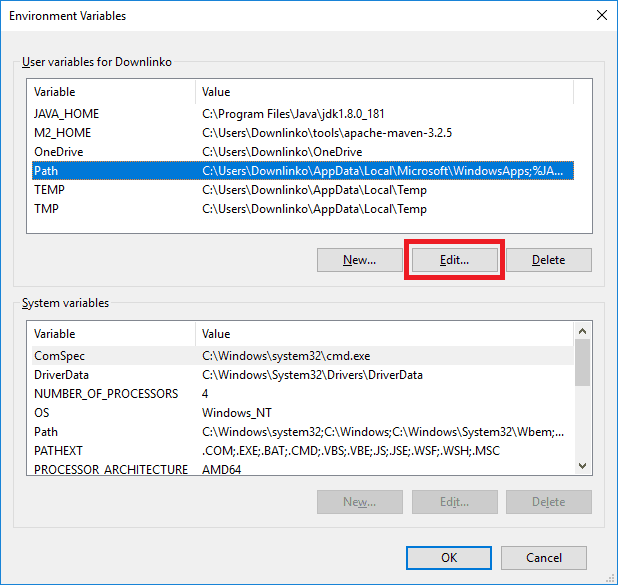
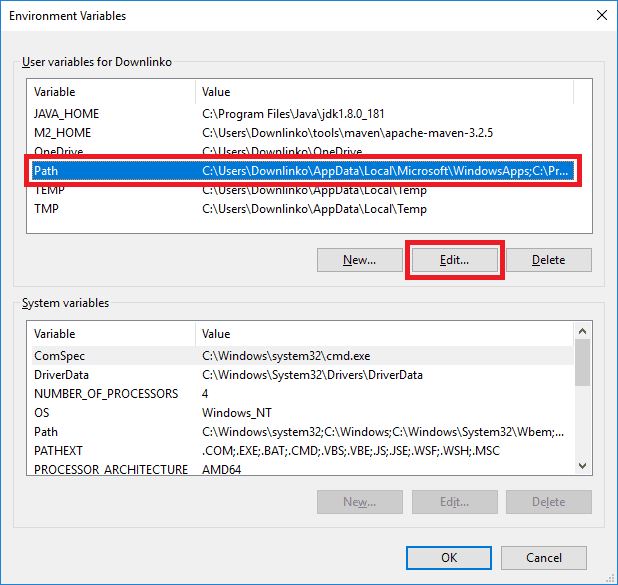
update posts

Changed region(s): [[0.0307, 0.2154, 0.9531, 0.3385], [0.6456, 0.4, 0.7994, 0.4615]]

diff --git a/_posts/development/maven/2018-07-28-download-install-maven-3-2-2-windows.md b/_posts/development/maven/2018-07-28-download-install-maven-3-2-2-windows.md
@@ -92,7 +92,7 @@ In this example, we extract in `C:\Users\Downlinko\tools`.
 
 <img src="{{ site.url }}/assets/images/posts/development/tools-extract-destination.png" alt="tools-extract-destination">
 
-Click on `Extract`. This extracts all Maven files under `C:\Users\Downlinko\tools\apache-maven-3.2.2`.
+Click on `Extract`. This extracts all Maven files under `C:\Users\Downlinko\tools\maven\apache-maven-3.2.2`.
 
 > From now on we refer to this location as `[MAVEN_INSTALL_DIR]`.
 
@@ -118,7 +118,7 @@ Click on `New…`.
 
 Enter "<kbd>M2_HOME</kbd>" as variable name. Enter the `[MAVEN_INSTALL_DIR]` as variable value.
 
-In this tutorial the installation directory is: `C:\Users\Downlinko\tools\apache-maven-3.2.2`.
+In this tutorial the installation directory is: `C:\Users\Downlinko\tools\maven\apache-maven-3.2.2`.
 
 Click `OK`.
 

diff --git a/_posts/development/maven/2018-08-08-download-install-maven-3-2-5-windows.md b/_posts/development/maven/2018-08-08-download-install-maven-3-2-5-windows.md
@@ -92,7 +92,7 @@ In this example, we extract in `C:\Users\Downlinko\tools`.
 
 <img src="{{ site.url }}/assets/images/posts/development/tools-extract-destination.png" alt="tools-extract-destination">
 
-Click on `Extract`. This extracts all Maven files under `C:\Users\Downlinko\tools\apache-maven-3.2.5`.
+Click on `Extract`. This extracts all Maven files under `C:\Users\Downlinko\tools\maven\apache-maven-3.2.5`.
 
 > From now on we refer to this location as `[MAVEN_INSTALL_DIR]`.
 
@@ -118,7 +118,7 @@ Click on `New…`.
 
 Enter "<kbd>M2_HOME</kbd>" as variable name. Enter the `[MAVEN_INSTALL_DIR]` as variable value.
 
-In this tutorial the installation directory is: `C:\Users\Downlinko\tools\apache-maven-3.2.5`.
+In this tutorial the installation directory is: `C:\Users\Downlinko\tools\maven\apache-maven-3.2.5`.
 
 Click `OK`.
 
